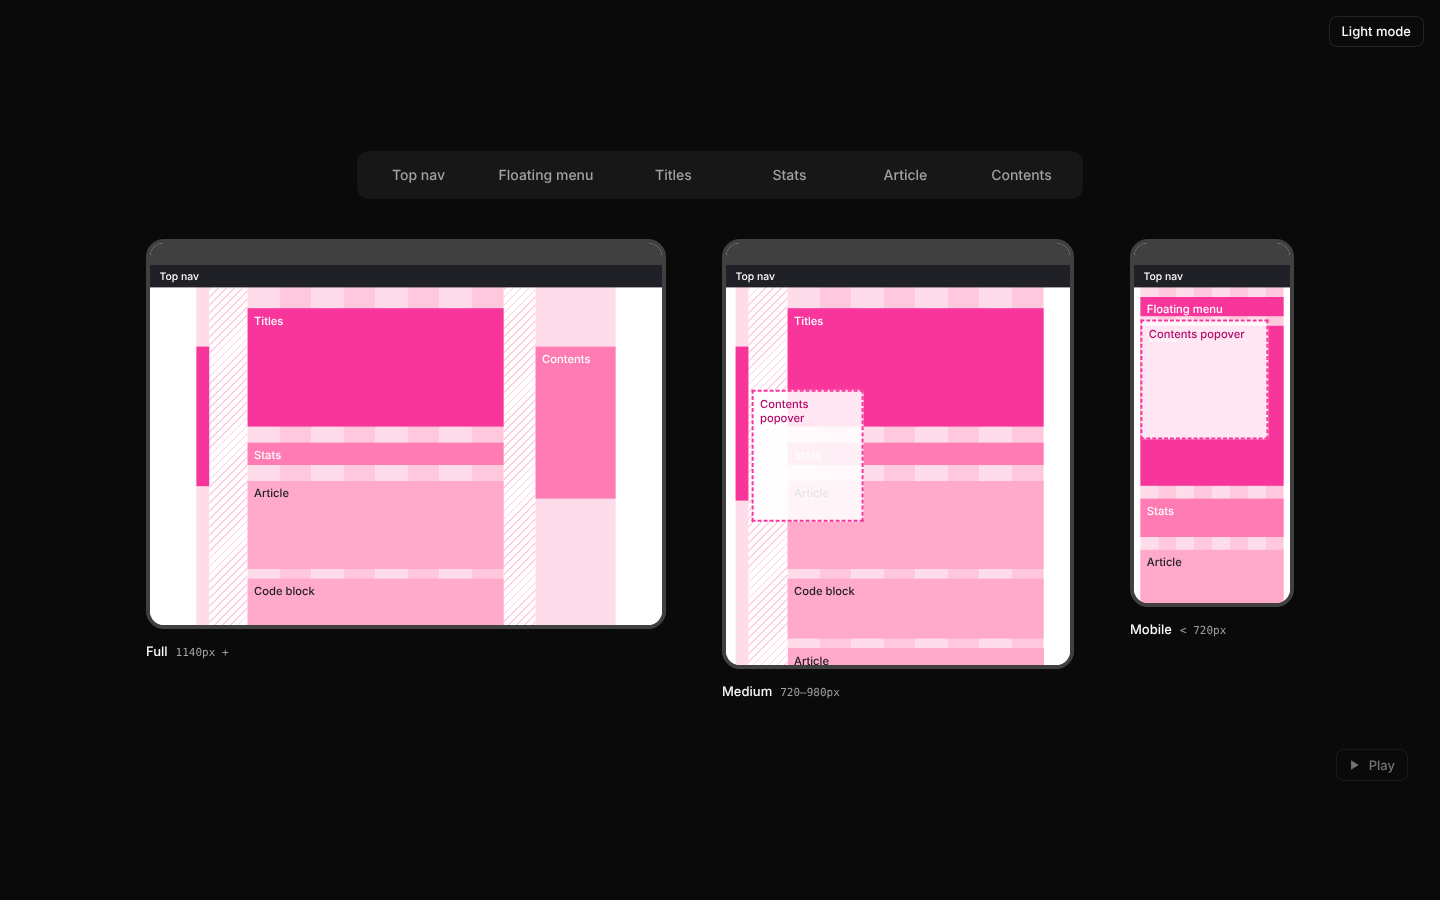
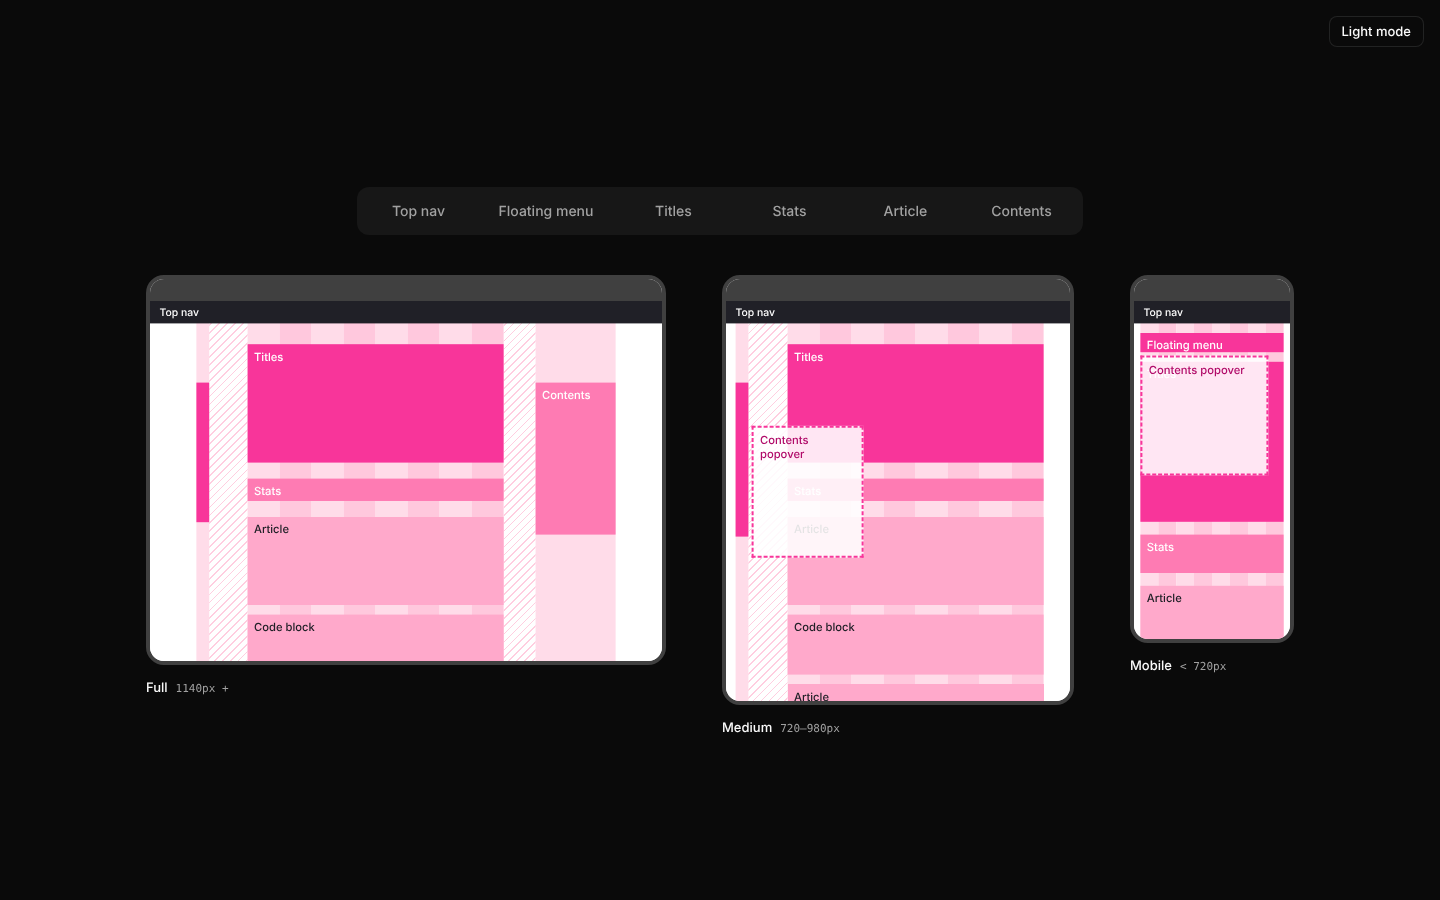
Remove the Play button and walkthrough
Claude-Session: https://claude.ai/code/session_01XsNnNDTsha9dbWBQaohYJh

diff --git a/src/ResponsiveLayoutMap.jsx b/src/ResponsiveLayoutMap.jsx
@@ -5,17 +5,6 @@ import "./ResponsiveLayoutMap.css";
 const GAP = 56; // space between device frames, px
 const FRAME = 8; // 4px shell border on each side
 
-const PlayIcon = () => (
-  <svg viewBox="0 0 24 24" fill="currentColor" aria-hidden="true">
-    <path d="M7 4v16l13-8z" />
-  </svg>
-);
-const StopIcon = () => (
-  <svg viewBox="0 0 24 24" fill="currentColor" aria-hidden="true">
-    <rect x="6" y="6" width="12" height="12" />
-  </svg>
-);
-
 function useContainerWidth(ref, enabled) {
   const [width, setWidth] = React.useState(null);
   React.useLayoutEffect(() => {
@@ -29,8 +18,8 @@ function useContainerWidth(ref, enabled) {
 
 /**
  * Draws a page's layout at several breakpoints side by side, to the same
- * scale. Pick a block type (or hover a block) to highlight it in every frame,
- * or press Play to step through them all.
+ * scale. Pick a block type (or hover a block) to highlight it
+ * across every frame.
  */
 export function ResponsiveLayoutMap({
   breakpoints = DEFAULT_BREAKPOINTS,
@@ -40,9 +29,7 @@ export function ResponsiveLayoutMap({
   focus,
   defaultFocus = null,
   onFocusChange,
-  playInterval = 1800,
   showControls = true,
-  showPlay = true,
   minRowScale = 0.2,
   className,
   ...rest
@@ -53,9 +40,7 @@ export function ResponsiveLayoutMap({
   const [innerFocus, setInnerFocus] = React.useState(defaultFocus);
   const selected = focus !== undefined ? focus : innerFocus;
   const [hovered, setHovered] = React.useState(null);
-  const [step, setStep] = React.useState(-1); // -1 = not playing
-  const playing = step >= 0;
-  const active = playing ? selected : hovered ?? selected;
+  const active = hovered ?? selected;
 
   const order = Object.keys(blockTypes);
 
@@ -66,25 +51,6 @@ export function ResponsiveLayoutMap({
     },
     [focus, onFocusChange]
   );
-
-  // Playback: highlight each block type in turn, then clear.
-  React.useEffect(() => {
-    if (!playing) return;
-    if (step >= order.length) {
-      setStep(-1);
-      select(null);
-      return;
-    }
-    select(order[step]);
-    const t = setTimeout(() => setStep((s) => s + 1), playInterval);
-    return () => clearTimeout(t);
-    // eslint-disable-next-line react-hooks/exhaustive-deps
-  }, [step]);
-
-  const stopPlay = () => {
-    setStep(-1);
-    select(null);
-  };
 
   // Shrink to fit the container, never growing past `scale`. When side by
   // side would get too small (phones), stack the frames vertically instead.
@@ -109,10 +75,7 @@ export function ResponsiveLayoutMap({
               type="button"
               aria-pressed={selected === id}
               data-on={selected === id}
-              onClick={() => {
-                if (playing) setStep(-1);
-                select(selected === id && !playing ? null : id);
-              }}
+              onClick={() => select(selected === id ? null : id)}
             >
               {blockTypes[id].label}
             </button>
@@ -195,27 +158,6 @@ export function ResponsiveLayoutMap({
         </div>
       </div>
 
-      {showPlay && (
-        <button
-          type="button"
-          className="rlm-play"
-          data-on={playing}
-          onClick={() => (playing ? stopPlay() : setStep(0))}
-          aria-label={playing ? "Stop walkthrough" : "Play walkthrough of each block"}
-        >
-          {playing ? <StopIcon /> : <PlayIcon />}
-          {playing ? (
-            <>
-              <b>{blockTypes[order[Math.min(step, order.length - 1)]]?.label}</b>
-              <small>
-                {Math.min(step + 1, order.length)}/{order.length}
-              </small>
-            </>
-          ) : (
-            "Play"
-          )}
-        </button>
-      )}
     </div>
   );
 }

diff --git a/src/ResponsiveLayoutMap.css b/src/ResponsiveLayoutMap.css
@@ -16,8 +16,6 @@
   --rlm-muted-foreground: oklch(0.556 0 0);
   --rlm-seg-bg: oklch(0.955 0 0);
   --rlm-seg-on: #fff;
-  --rlm-border: oklch(0.922 0 0);
-  --rlm-background: oklch(1 0 0);
   --rlm-ring: oklch(0.708 0 0);
   --rlm-radius: 12px;
   --rlm-ease: cubic-bezier(0.4, 0, 0.2, 1);
@@ -37,8 +35,6 @@
   --rlm-muted-foreground: oklch(0.708 0 0);
   --rlm-seg-bg: oklch(0.205 0 0);
   --rlm-seg-on: oklch(0.371 0 0);
-  --rlm-border: oklch(1 0 0 / 10%);
-  --rlm-background: oklch(0.145 0 0);
   --rlm-ring: oklch(0.556 0 0);
   --rlm-shell: oklch(0.371 0 0);
 }
@@ -74,8 +70,7 @@
   color: var(--rlm-foreground);
   box-shadow: 0 1px 2px 0 rgb(0 0 0 / 0.05);
 }
-.rlm-seg button:focus-visible,
-.rlm-play:focus-visible {
+.rlm-seg button:focus-visible {
   outline: 2px solid var(--rlm-ring);
   outline-offset: 2px;
 }
@@ -176,35 +171,6 @@
 }
 .rlm-cap b { font-weight: 500; }
 .rlm-cap span {
-  font: 400 11px/16px "Geist Mono", ui-monospace, SFMono-Regular, Menlo, monospace;
-  color: var(--rlm-muted-foreground);
-}
-
-/* Play */
-.rlm-play {
-  align-self: flex-end;
-  display: flex;
-  align-items: center;
-  gap: 8px;
-  height: 32px;
-  padding: 0 12px 0 10px;
-  border: 1px solid var(--rlm-border);
-  border-radius: 8px;
-  background: var(--rlm-background);
-  font-weight: 500;
-  font-size: 13px;
-  line-height: 20px;
-  font-family: inherit;
-  color: var(--rlm-muted-foreground);
-  cursor: pointer;
-  opacity: 0.7;
-  transition: opacity 0.15s, color 0.15s;
-}
-.rlm-play:hover,
-.rlm-play[data-on="true"] { opacity: 1; color: var(--rlm-foreground); }
-.rlm-play svg { width: 14px; height: 14px; }
-.rlm-play b { font-weight: 500; color: var(--rlm-foreground); }
-.rlm-play small {
   font: 400 11px/16px "Geist Mono", ui-monospace, SFMono-Regular, Menlo, monospace;
   color: var(--rlm-muted-foreground);
 }

diff --git a/README.md b/README.md
@@ -1,6 +1,6 @@
 # Responsive Layout Map
 
-A React component that draws a page's layout at several breakpoints side by side, all to the same scale. Pick a block (Top nav, Floating menu, Titles…) to highlight it in every frame and see how it moves between Full, Medium and Mobile. Press **Play** to step through each block in turn.
+A React component that draws a page's layout at several breakpoints side by side, all to the same scale. Pick a block (Top nav, Floating menu, Titles…) to highlight it in every frame and see how it moves between Full, Medium and Mobile.
 
 It ships with the layout of a docs-style home page, and you can feed it your own.
 
@@ -44,16 +44,14 @@ Your bundler needs to handle JSX and CSS imports (Vite, Next.js and similar do t
 | Prop | Type | Default | Description |
 | --- | --- | --- | --- |
 | `breakpoints` | `Breakpoint[]` | Home page (Full, Medium, Mobile) | The frames to draw. See [Your own layout](#your-own-layout) |
-| `blockTypes` | `Record<string, BlockType>` | Home page blocks | Names and colours of each kind of block; also the order Play steps through |
+| `blockTypes` | `Record<string, BlockType>` | Home page blocks | Names and colours of each kind of block; also the order of the buttons |
 | `scale` | `number` | `0.4` | Largest scale to draw the frames at |
 | `fit` | `boolean` | `true` | Shrink to fit the container. On narrow screens the frames stack vertically |
 | `minRowScale` | `number` | `0.2` | Below this scale, frames stack instead of sitting side by side |
 | `focus` | `string \| null` | — | Controlled highlighted block type. Leave unset to let the component manage it |
 | `defaultFocus` | `string \| null` | `null` | Block type highlighted on first render |
 | `onFocusChange` | `(type: string \| null) => void` | — | Called when the highlighted block changes |
-| `playInterval` | `number` | `1800` | Milliseconds each block stays highlighted during Play |
 | `showControls` | `boolean` | `true` | Show the row of block buttons |
-| `showPlay` | `boolean` | `true` | Show the Play button |
 | `className` | `string` | — | Extra class on the root element |
 
 ## Your own layout
